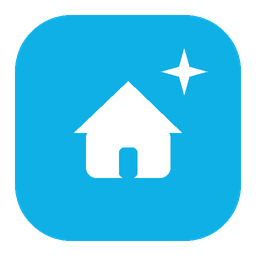
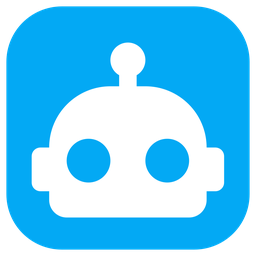
Release 1.0.0 with the robot brand and versioned frontend cache.
Drop the hand-incremented CSS/JS ?v= counter. HA loads panel and overlay with the manifest version, and those modules pass the same query string to nested assets so a HACS update busts the browser cache without a separate iteration number.

diff --git a/custom_components/ai_workspace/www/panel.js b/custom_components/ai_workspace/www/panel.js
@@ -1,5 +1,8 @@
-import { mountAiWorkspace } from "./chat.js?v=51";
-import { stringsFor } from "./i18n.js?v=51";
+const CACHE = new URL(import.meta.url).search;
+const [{ mountAiWorkspace }, { stringsFor }] = await Promise.all([
+  import(`./chat.js${CACHE}`),
+  import(`./i18n.js${CACHE}`),
+]);
 
 class HaAiWorkspacePanel extends HTMLElement {
   constructor() {
@@ -99,7 +102,7 @@ class HaAiWorkspacePanel extends HTMLElement {
           margin: 0;
         }
       </style>
-      <link rel="stylesheet" href="/ai_workspace/static/chat.css?v=51">
+      <link rel="stylesheet" href="/ai_workspace/static/chat.css${CACHE}">
       <ha-top-app-bar-fixed>
         <ha-menu-button slot="navigationIcon"></ha-menu-button>
         <h1 class="page-title" slot="title">${ui.title}</h1>

diff --git a/custom_components/ai_workspace/www/chat.js b/custom_components/ai_workspace/www/chat.js
@@ -1,4 +1,5 @@
-import { stringsFor } from "./i18n.js?v=51";
+const CACHE = new URL(import.meta.url).search;
+const { stringsFor } = await import(`./i18n.js${CACHE}`);
 
 const API = "/api/ai_workspace";
 const HELPER_DOMAINS = new Set([
@@ -192,7 +193,7 @@ export function mountAiWorkspace(root, options = {}) {
     .filter(Boolean)
     .join(" ");
   root.innerHTML = `
-    <link rel="stylesheet" href="/ai_workspace/static/chat.css?v=51">
+    <link rel="stylesheet" href="/ai_workspace/static/chat.css${CACHE}">
     <div class="${wrapClass}">
       <button type="button" class="nav-scrim" hidden aria-label="${t("close")}"></button>
       <aside>

diff --git a/custom_components/ai_workspace/www/overlay.js b/custom_components/ai_workspace/www/overlay.js
@@ -1,5 +1,8 @@
-import { mountAiWorkspace } from "./chat.js?v=51";
-import { stringsFor } from "./i18n.js?v=51";
+const CACHE = new URL(import.meta.url).search;
+const [{ mountAiWorkspace }, { stringsFor }] = await Promise.all([
+  import(`./chat.js${CACHE}`),
+  import(`./i18n.js${CACHE}`),
+]);
 
 const HOST_ID = "ha-ai-workspace-overlay";
 

diff --git a/custom_components/ai_workspace/const.py b/custom_components/ai_workspace/const.py
@@ -1,10 +1,15 @@
+import json
+from pathlib import Path
+
 DOMAIN = "ai_workspace"
 PANEL_URL = "ai-workspace"
 PANEL_ELEMENT = "ha-ai-workspace-panel"
 STATIC_URL = "/ai_workspace/static"
-FRONTEND_CACHE = "51"
-OVERLAY_JS = f"{STATIC_URL}/overlay.js?v={FRONTEND_CACHE}"
-PANEL_JS = f"{STATIC_URL}/panel.js?v={FRONTEND_CACHE}"
+VERSION = json.loads(
+    (Path(__file__).parent / "manifest.json").read_text(encoding="utf-8")
+)["version"]
+OVERLAY_JS = f"{STATIC_URL}/overlay.js?v={VERSION}"
+PANEL_JS = f"{STATIC_URL}/panel.js?v={VERSION}"
 DEFAULT_MODEL = "composer-2.5"
 DEFAULT_API_MODEL = "gpt-4.1"
 DEFAULT_ANTHROPIC_MODEL = "claude-sonnet-4-5"

diff --git a/custom_components/ai_workspace/mcp_client.py b/custom_components/ai_workspace/mcp_client.py
@@ -5,6 +5,8 @@ from typing import Any
 
 from aiohttp import ClientError, ClientSession, ClientTimeout
 
+from .const import VERSION
+
 _PROTOCOL = "2025-03-26"
 
 
@@ -43,7 +45,7 @@ class McpHttpClient:
             {
                 "protocolVersion": _PROTOCOL,
                 "capabilities": {},
-                "clientInfo": {"name": "ai-workspace", "version": "0.3.0"},
+                "clientInfo": {"name": "ai-workspace", "version": VERSION},
             },
         )
         await self.call("notifications/initialized", notify=True)

diff --git a/custom_components/ai_workspace/mcp_resolve.py b/custom_components/ai_workspace/mcp_resolve.py
@@ -20,6 +20,7 @@ from .const import (
     MCP_HA,
     MCP_HA_MCP,
     MCP_KINDS,
+    VERSION,
 )
 
 _LOGGER = logging.getLogger(__name__)
@@ -31,7 +32,7 @@ _INIT = {
     "params": {
         "protocolVersion": "2025-03-26",
         "capabilities": {},
-        "clientInfo": {"name": "ai-workspace", "version": "0.3.0"},
+        "clientInfo": {"name": "ai-workspace", "version": VERSION},
     },
 }
 

diff --git a/ai_workspace/CHANGELOG.md b/ai_workspace/CHANGELOG.md
@@ -1,5 +1,11 @@
 # Changelog
 
+## 1.0.0
+
+- HACS integration and Cursor Runtime sidecar for Home Assistant Container and OS
+- Cloud API (OpenAI / Claude) or Cursor SDK chat, with MCP to the house
+- Robot badge branding, pinned chats, and a copy-paste Runtime compose file
+
 ## 0.3.0
 
 - Public Supervisor add-on for the local Cursor agent

diff --git a/README.md b/README.md
@@ -1,4 +1,10 @@
-*Use Cursor, Claude, or ChatGPT in Home Assistant from your couch.*
+<p align="center">
+  <img src="ai_workspace/logo.png" alt="AI Workspace" width="420">
+</p>
+
+<p align="center"><em>Use Cursor, Claude, or ChatGPT in Home Assistant from your couch.</em></p>
+
+---
 
 # AI Workspace
 
